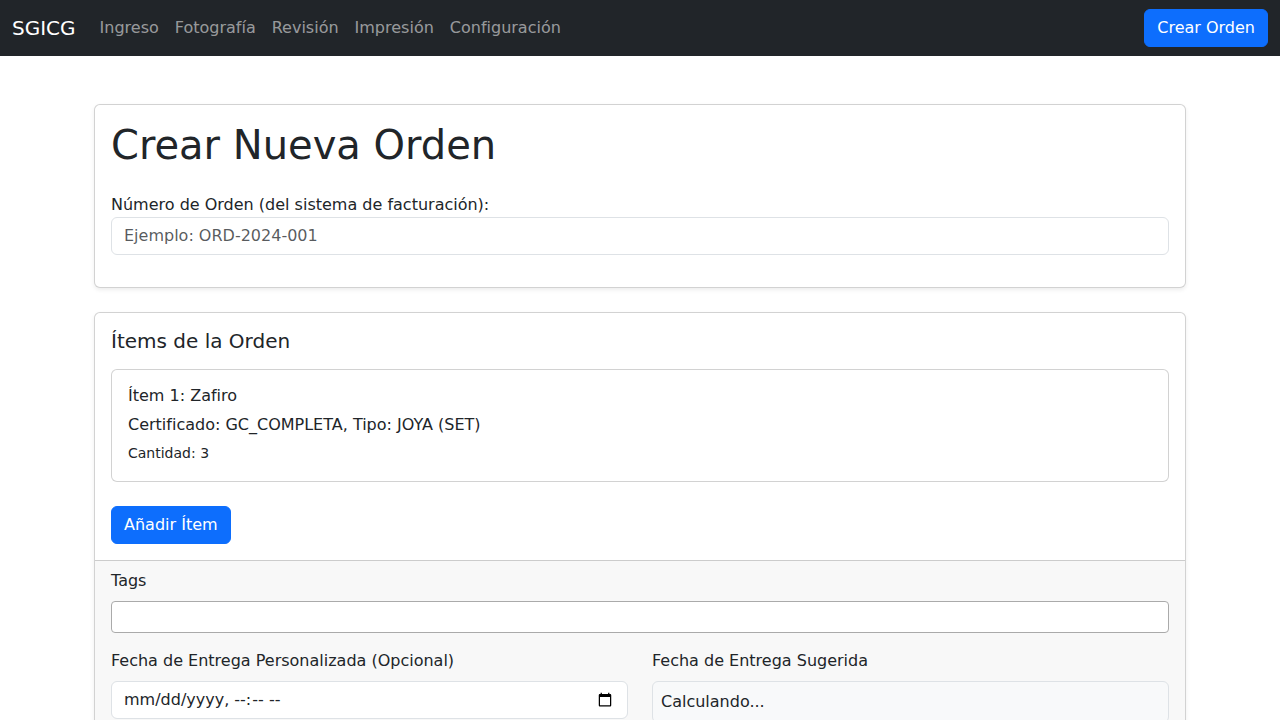
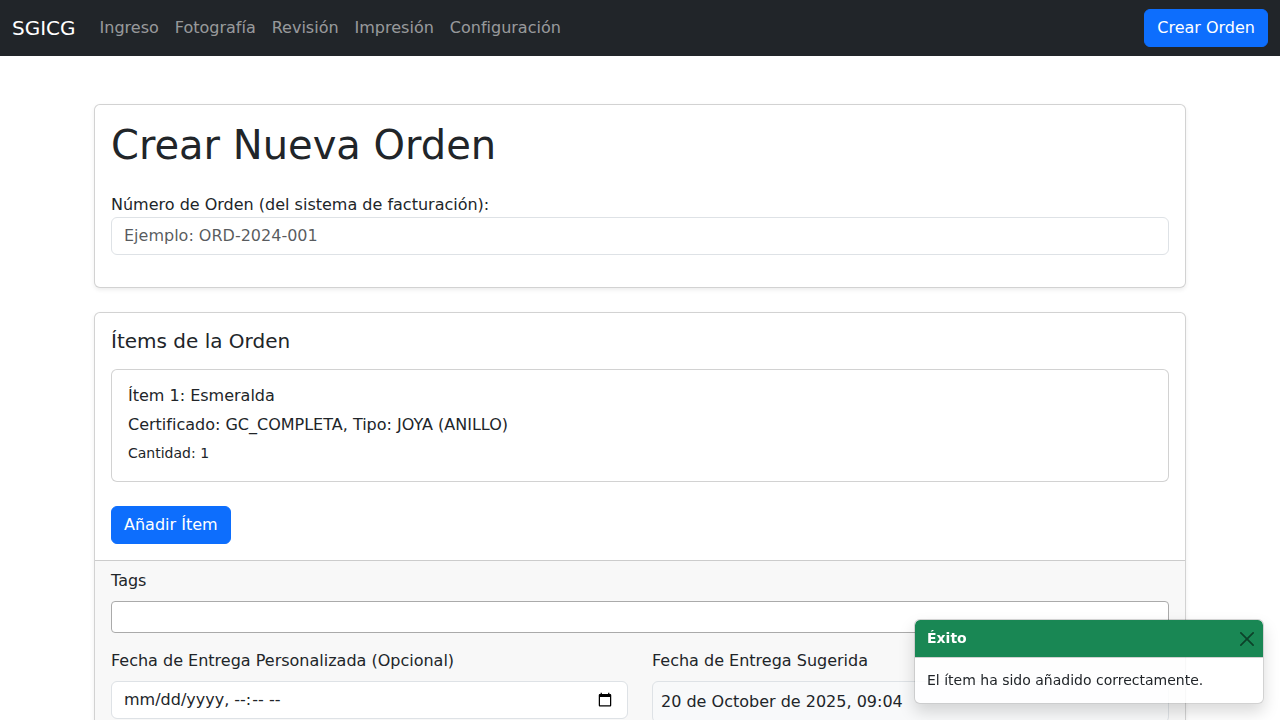
refactor: Stabilize and refine 'Add Item' modal behavior
This commit improves the stability and user experience of the 'Add Item' modal.

- Implemented a robust reset mechanism to prevent the modal from entering a blank or unresponsive state.
- Ensured that newly added items are immediately reflected in the order summary without a page reload.
- The suggested delivery time is now automatically recalculated and updated after each item is added.
- Added clear success and error toasts to provide better user feedback.

diff --git a/templates/crear_orden.html b/templates/crear_orden.html
@@ -302,21 +302,28 @@ document.addEventListener('DOMContentLoaded', function() {
         }
     }
 
-     function resetWizard() {
-        currentStep = 1;
-        showStep(1);
+    function resetWizard() {
+        currentStep = 1; // Explicitly set currentStep back to 1
+        showStep(1); // Show the first step
+
         const modal = document.getElementById('addItemModal');
-        modal.querySelectorAll('input, select, textarea').forEach(el => {
-            if (el.type === 'radio' || el.type === 'checkbox') {
-                el.checked = false;
-            } else if (el.multiple) {
-                Array.from(el.options).forEach(opt => opt.selected = false);
+
+        // Reset all form elements within the modal
+        const formElements = modal.querySelectorAll('input, select, textarea');
+        formElements.forEach(el => {
+            const tagName = el.tagName.toLowerCase();
+            if (tagName === 'select') {
+                el.selectedIndex = 0; // Reset to the first option
+            } else if (el.type === 'checkbox' || el.type === 'radio') {
+                el.checked = false; // Uncheck
             } else {
-                el.value = '';
+                el.value = ''; // Clear value for text, number, textarea, etc.
             }
         });
-        document.getElementById('codigo_referencia_modal').value = '';
-        document.getElementById('componentes_set_modal').value = '';
+
+        // Ensure conditional fields are hidden correctly
+        document.getElementById('gema-principal-group').style.display = 'block';
+        document.getElementById('codigo-referencia-group').style.display = 'none';
     }
 
     itemWizard.addEventListener('click', function(e) {
@@ -332,26 +339,37 @@ document.addEventListener('DOMContentLoaded', function() {
     const mainModal = new bootstrap.Modal(mainModalEl);
 
     document.getElementById('add-item-to-order').addEventListener('click', function() {
-        const itemData = {
-            tipo_certificado: document.getElementById('tipo_certificado_modal').value,
-            que_es: document.getElementById('que_es_modal').value,
-            tipo_joya: document.getElementById('tipo_joya_modal').value,
-            gema_principal: Array.from(document.getElementById('gema_principal_modal').selectedOptions).map(o => o.value).join(','),
-            codigo_referencia: document.getElementById('codigo_referencia_modal').value,
-            componentes_set: document.getElementById('componentes_set_modal').value,
-            cantidad_gemas: document.getElementById('cantidad_gemas_modal').value,
-            metal: document.getElementById('metal_modal').value,
-            forma_gema: document.getElementById('forma_gema_modal').value,
-            peso_gema: document.getElementById('peso_gema_modal').value,
-            comentarios: document.getElementById('comentarios_modal').value,
-        };
-        items.push(itemData);
-        updateForm();
+        try {
+            const itemData = {
+                tipo_certificado: document.getElementById('tipo_certificado_modal').value,
+                que_es: document.getElementById('que_es_modal').value,
+                tipo_joya: document.getElementById('tipo_joya_modal').value,
+                gema_principal: Array.from(document.getElementById('gema_principal_modal').selectedOptions).map(o => o.value).join(','),
+                codigo_referencia: document.getElementById('codigo_referencia_modal').value,
+                componentes_set: document.getElementById('componentes_set_modal').value,
+                cantidad_gemas: document.getElementById('cantidad_gemas_modal').value,
+                metal: document.getElementById('metal_modal').value,
+                forma_gema: document.getElementById('forma_gema_modal').value,
+                peso_gema: document.getElementById('peso_gema_modal').value,
+                comentarios: document.getElementById('comentarios_modal').value,
+            };
+            items.push(itemData);
+            updateForm();
 
-        mainModal.hide();
+            // Show success toast
+            const successToast = new bootstrap.Toast(document.getElementById('success-toast'));
+            successToast.show();
 
-        const successToast = new bootstrap.Toast(document.getElementById('success-toast'));
-        successToast.show();
+            // Hide the modal after a short delay to allow the toast to be seen
+            setTimeout(() => {
+                mainModal.hide();
+            }, 500);
+
+        } catch (error) {
+            // Show error toast
+            const errorToast = new bootstrap.Toast(document.getElementById('error-toast'));
+            errorToast.show();
+        }
     });
 
     mainModalEl.addEventListener('hidden.bs.modal', function (event) {
@@ -398,8 +416,33 @@ document.addEventListener('DOMContentLoaded', function() {
             `;
             summaryContainer.appendChild(summaryCard);
         });
-        // You'll need to re-implement the suggested date logic if you want to keep it.
-        // updateSuggestedDate();
+        updateSuggestedDate();
+    }
+
+    function updateSuggestedDate() {
+        const fechaSugeridaTexto = document.getElementById('fecha-sugerida-texto');
+        fechaSugeridaTexto.innerHTML = '<span class="spinner-border spinner-border-sm" role="status" aria-hidden="true"></span> Calculando...';
+
+        fetch("{% url 'api_calcular_fecha_sugerida' %}", {
+            method: 'POST',
+            headers: {
+                'Content-Type': 'application/json',
+                'X-CSRFToken': '{{ csrf_token }}'
+            },
+            body: JSON.stringify({ items: items })
+        })
+        .then(response => response.json())
+        .then(data => {
+            if (data.fecha_sugerida) {
+                fechaSugeridaTexto.textContent = data.fecha_sugerida;
+            } else {
+                fechaSugeridaTexto.textContent = 'No disponible';
+            }
+        })
+        .catch(error => {
+            console.error('Error calculating suggested date:', error);
+            fechaSugeridaTexto.textContent = 'Error al calcular';
+        });
     }
 });
 </script>

diff --git a/templates/base.html b/templates/base.html
@@ -34,5 +34,29 @@
     <script src="https://cdn.jsdelivr.net/npm/select2@4.1.0-rc.0/dist/js/select2.min.js"></script>
     <script src="{% static 'js/countdown.js' %}"></script>
     {% block page_scripts %}{% endblock %}
+
+    <!-- Toast Container -->
+    <div class="position-fixed bottom-0 end-0 p-3" style="z-index: 1100">
+        <!-- Success Toast -->
+        <div id="success-toast" class="toast" role="alert" aria-live="assertive" aria-atomic="true">
+            <div class="toast-header bg-success text-white">
+                <strong class="me-auto">Éxito</strong>
+                <button type="button" class="btn-close" data-bs-dismiss="toast" aria-label="Close"></button>
+            </div>
+            <div class="toast-body">
+                El ítem ha sido añadido correctamente.
+            </div>
+        </div>
+        <!-- Error Toast -->
+        <div id="error-toast" class="toast" role="alert" aria-live="assertive" aria-atomic="true">
+            <div class="toast-header bg-danger text-white">
+                <strong class="me-auto">Error</strong>
+                <button type="button" class="btn-close" data-bs-dismiss="toast" aria-label="Close"></button>
+            </div>
+            <div class="toast-body">
+                Ha ocurrido un error. Por favor, intente de nuevo.
+            </div>
+        </div>
+    </div>
 </body>
 </html>

diff --git a/jules-scratch/verification/verify_add_item_modal.py b/jules-scratch/verification/verify_add_item_modal.py
@@ -1,0 +1,70 @@
+
+from playwright.sync_api import sync_playwright, expect
+
+def run_verification():
+    with sync_playwright() as p:
+        browser = p.chromium.launch(headless=True)
+        page = browser.new_page()
+
+        try:
+            # Navigate to the create order page
+            page.goto("http://127.0.0.1:8000/orden/nueva/")
+
+            # Open the "Add Item" modal
+            page.get_by_role("button", name="Añadir Ítem").click()
+
+            # Wait for the modal to be visible
+            expect(page.locator("#addItemModal")).to_be_visible()
+
+            # Step 1: Select certificate type
+            page.locator("#tipo_certificado_modal").select_option("GC_COMPLETA")
+            page.get_by_role("button", name="Siguiente").click()
+
+            # Step 2: Select "What is it?"
+            page.locator("#que_es_modal").select_option("JOYA")
+            page.get_by_role("button", name="Siguiente").click()
+
+            # Step 3: Select jewel type
+            page.locator("#tipo_joya_modal").select_option("ANILLO")
+            page.get_by_role("button", name="Siguiente").click()
+
+            # Step 5: Select main gemstone
+            page.locator("#gema_principal_modal").select_option("Esmeralda")
+            page.get_by_role("button", name="Siguiente").click()
+
+            # Step 6: Enter quantity
+            page.locator("#cantidad_gemas_modal").fill("1")
+            page.get_by_role("button", name="Siguiente").click()
+
+            # Step 7: Enter final details
+            page.locator("#metal_modal").select_option("ORO")
+            page.locator("#forma_gema_modal").select_option("Redonda")
+            page.locator("#peso_gema_modal").fill("1.5")
+
+            # Click the "Add Item to Order" button
+            page.get_by_role("button", name="Añadir Ítem a la Orden").click()
+
+            # Wait for the success toast to appear and the modal to close
+            expect(page.locator("#success-toast")).to_be_visible()
+            expect(page.locator("#addItemModal")).not_to_be_visible()
+
+            # Verify the item summary is displayed
+            expect(page.locator("#items-summary-container .card")).to_have_count(1)
+
+            # Verify the suggested date has been updated
+            expect(page.locator("#fecha-sugerida-texto")).not_to_contain_text("Calculando...")
+
+            # Take a screenshot
+            page.screenshot(path="jules-scratch/verification/verification.png")
+
+            print("Verification script completed successfully.")
+
+        except Exception as e:
+            print(f"An error occurred during verification: {e}")
+            page.screenshot(path="jules-scratch/verification/error.png")
+
+        finally:
+            browser.close()
+
+if __name__ == "__main__":
+    run_verification()
